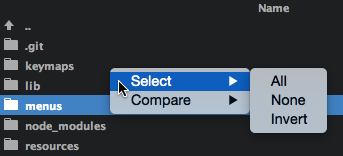
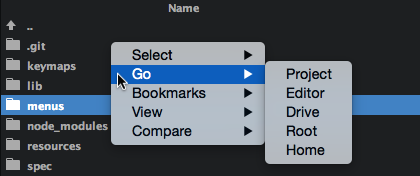
Update context menu screen shot.

diff --git a/README.md b/README.md
@@ -103,6 +103,6 @@ The list of bookmarks can be opened from either the menu in Atom Commander or by
 ### Removing Bookmarks
 The list of bookmarks can be opened from either the menu in Atom Commander or by choosing `Atom Commander: Remove Bookmark` from the Command Palette. Each bookmark that is selected will be removed. The list will remain open until it is cancelled by pressing the `Escape` key.
 
-## Next Up
+## Todo
 - Load directories asynchronously.
 - Give visual feedback for file system operations.
